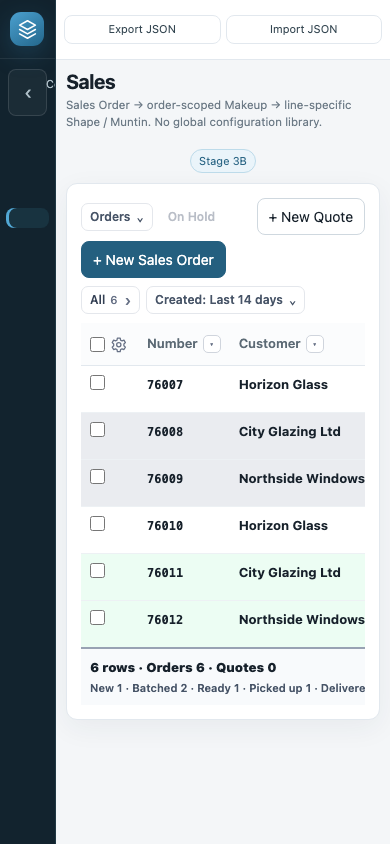
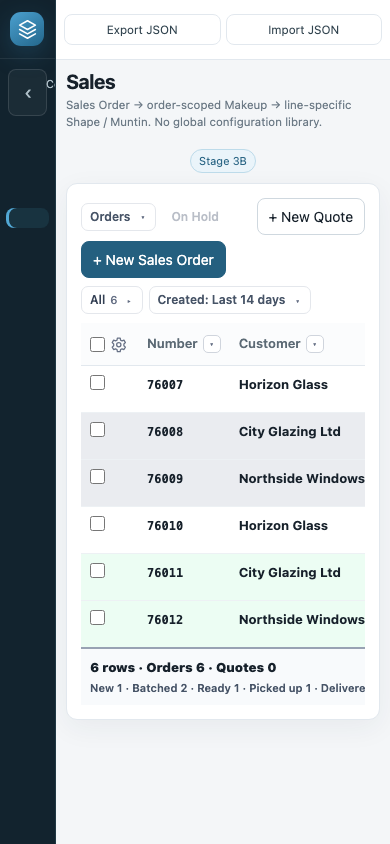
Sales: единые стрелки и тонкая полоса истории заказа

diff --git a/src/styles/lifecycle.css b/src/styles/lifecycle.css
@@ -28,23 +28,25 @@
 .pill.st-cancelled{background:#fee4e2;color:#b42318}
 .pill.st-added{background:#e0f2fe;color:#026aa2;font-size:10px}
 button.go{background:#067647;border-color:#067647;color:#fff;font-weight:700}
-.sales-status-row{display:flex;align-items:flex-start;gap:14px;margin:0 0 10px;padding:8px 12px 6px;border:1px solid var(--line,#e3e7ee);border-radius:10px;background:#fff}
+/* Компактная история: название и точка на одной линии; даты только для состоявшихся этапов. */
+.sales-status-row{display:flex;align-items:center;gap:14px;margin:0 0 10px;padding:7px 12px;border:1px solid var(--line,#e3e7ee);border-radius:10px;background:#fff}
 .sales-status-row .sp{flex:1}
-.sales-steps{display:flex;flex:1;min-width:0}
-.sales-step{position:relative;flex:1;min-width:0;padding-top:18px;text-align:center}
-.sales-step:before{content:'';position:absolute;top:6px;left:0;right:0;height:3px;background:#e4e7ec}
+.sales-steps{display:flex;flex:1;min-width:0;align-items:flex-start}
+.sales-step{position:relative;flex:1;min-width:0;text-align:center;line-height:18px}
+.sales-step:before{content:'';position:absolute;top:9px;left:0;right:0;height:1px;background:#e4e7ec}
 .sales-step:first-child:before{left:50%}
 .sales-step:last-child:before{right:50%}
-.sales-step i{position:absolute;top:0;left:50%;width:16px;height:16px;margin-left:-8px;border:3px solid #d0d5dd;border-radius:50%;background:#fff}
-.sales-step b{display:block;color:#667085;font-size:12px}
-.sales-step small{display:block;color:#98a2b3;font-size:11px}
-.sales-step.done:before{background:#1f6f9f}
+.sales-step-label{position:relative;display:inline-flex;align-items:center;gap:6px;padding:0 8px;background:#fff;white-space:nowrap}
+.sales-step i{display:block;flex:none;width:8px;height:8px;border:1.5px solid #d0d5dd;border-radius:50%;background:#fff}
+.sales-step b{display:block;color:#7b8492;font-size:11px;font-weight:500}
+.sales-step small{display:block;color:#98a2b3;font-size:10px;line-height:14px}
+.sales-step.done:before{background:#7babc7}
 .sales-step.done i{border-color:#1f6f9f;background:#1f6f9f}
-.sales-step.done b{color:#1c2330}
-.sales-step.cur:before{background:linear-gradient(90deg,#1f6f9f 50%,#e4e7ec 50%)}
+.sales-step.done b{color:#475467}
+.sales-step.cur:before{background:linear-gradient(90deg,#7babc7 50%,#e4e7ec 50%)}
 .sales-step:first-child.cur:before{background:#e4e7ec}
-.sales-step.cur i{border-color:#1f6f9f;box-shadow:0 0 0 4px #d1e9ff}
-.sales-step.cur b{color:#16325c;font-weight:800}
+.sales-step.cur i{border-color:#1f6f9f;background:#1f6f9f;box-shadow:0 0 0 3px #e5f1f9}
+.sales-step.cur b{color:#16325c;font-weight:600}
 .sales-status-tools{display:flex;flex-direction:column;align-items:flex-end;gap:6px}
 .sales-lockbar,.sales-quote-note{display:flex;align-items:center;flex-wrap:wrap;gap:8px;margin:0 0 10px;padding:8px 12px;border-radius:9px}
 .sales-lockbar{border:1px solid #fedf89;background:#fffaeb;color:#7a2e0e}
@@ -64,4 +66,4 @@ tr.line-locked input,tr.line-locked select,tr.line-locked button{opacity:.7}
 .sales-dialog-red{color:#b42318}
 .sales-dialog-note{margin-top:8px;padding:8px 10px;border:1px solid #fedf89;border-radius:8px;background:#fffaeb;color:#7a2e0e}
 .sales-dialog-actions{display:flex;justify-content:flex-end;gap:8px;padding:10px 16px;border-top:1px solid #eaecf0;background:#f9fafb}
-@media(max-width:900px){.sales-status-row{flex-direction:column}.sales-status-tools{flex-direction:row;flex-wrap:wrap}}
+@media(max-width:900px){.sales-status-row{overflow-x:auto}.sales-status-row .sales-steps{min-width:660px}.sales-status-tools{flex-direction:row;flex-wrap:wrap}}

diff --git a/src/erp/sales/lifecycle.js b/src/erp/sales/lifecycle.js
@@ -310,7 +310,7 @@ function salesStatusStepper(o){
  }
  if(o.status==='cancelled')return `<div class="sales-status-row"><span class="pill st-cancelled">Cancelled ${esc(salesShortDate(o.statusDates.cancelled))}</span><span class="mut">Status history · read only</span></div>`;
  const at=SALES_ORDER_FLOW.indexOf(o.status);
- const steps=SALES_ORDER_FLOW.map((s,i)=>`<div class="sales-step ${i<at?'done':i===at?'cur':''}" data-step="${s}"><i></i><b>${esc(s==='done'&&at<4?'Picked up / Delivered':salesStatusLabel(o,s))}${s==='batched'?' 🔒':''}</b><small>${o.statusDates&&o.statusDates[s]?esc(salesShortDate(o.statusDates[s])):'&nbsp;'}</small></div>`).join('');
+ const steps=SALES_ORDER_FLOW.map((s,i)=>`<div class="sales-step ${i<at?'done':i===at?'cur':''}" data-step="${s}"><span class="sales-step-label"><i></i><b>${esc(s==='done'&&at<4?'Picked up / Delivered':salesStatusLabel(o,s))}${s==='batched'?' 🔒':''}</b></span>${o.statusDates&&o.statusDates[s]?`<small>${esc(salesShortDate(o.statusDates[s]))}</small>`:''}</div>`).join('');
  return `<div class="sales-status-row"><div class="sales-steps">${steps}</div><span class="sales-status-readonly">Status history · read only</span></div>`;
 }
 function salesOrderBatchNumbers(o){return [...new Set((o.lines||[]).filter(salesLineLocked).map(l=>l.batchNo).filter(Boolean).concat(o.batchNo?[o.batchNo]:[]))];}
@@ -348,6 +348,6 @@ function salesStatusChips(rows){
  if(salesShow.orders)SALES_ORDER_STATE_LIST.forEach(s=>chips.push({key:'order:'+s,label:s==='done'?'Picked up / Delivered':salesStatusLabel({kind:'order'},s),n:count('order',s)}));
  if(salesShow.quotes)SALES_QUOTE_STATE_LIST.forEach(s=>chips.push({key:'quote:'+s,label:salesStatusLabel({kind:'quote'},s),n:count('quote',s)}));
  const p=salesListLoadPrefs(),selected=chips.find(c=>c.key===salesStatusFilter),label=selected?selected.label:'All',n=selected?selected.n:rows.length;
- const toggle=`<button type="button" class="sl-status-toggle" data-status-toggle aria-expanded="${p.statusExpanded}" title="${p.statusExpanded?'Hide status filters':'Show status filters'}" onclick="salesListToggleStatuses()">${esc(label)} <b>${n}</b><span aria-hidden="true">${p.statusExpanded?'‹':'›'}</span></button>`;
+ const toggle=`<button type="button" class="sl-status-toggle" data-status-toggle aria-expanded="${p.statusExpanded}" title="${p.statusExpanded?'Hide status filters':'Show status filters'}" onclick="salesListToggleStatuses()">${esc(label)} <b>${n}</b><span class="sl-disclosure" aria-hidden="true">${p.statusExpanded?'▾':'▸'}</span></button>`;
  return `<div class="sales-status-chips sl-status-compact">${toggle}${p.statusExpanded?`<div class="sl-status-options"><button type="button" data-status-all class="${salesStatusFilter?'':'on'}" onclick="salesSetStatusFilter('')">All <b>${rows.length}</b></button>${chips.map(c=>`<button type="button" data-status-chip="${c.key}" class="${salesStatusFilter===c.key?'on':''}" onclick="salesSetStatusFilter('${c.key}')">${esc(c.label)} <b>${c.n}</b></button>`).join('')}</div>`:''}</div>`;
 }

diff --git a/src/erp/views/sales-list-controls.js b/src/erp/views/sales-list-controls.js
@@ -2,7 +2,7 @@
    что и меню колонки: второго, невидимого ограничения здесь нет. */
 function salesListShowButton(){
  const label=salesShow.orders&&salesShow.quotes?'Orders + Quotes':salesShow.quotes?'Quotes':'Orders';
- return `<button type="button" class="sl-quiet" data-show-menu aria-label="Show orders or quotes" aria-expanded="${!!salesListMenu&&salesListMenu.kind==='show'}" onclick="salesListOpenShow(event)">${label}<span aria-hidden="true">⌄</span></button>`;
+ return `<button type="button" class="sl-quiet" data-show-menu aria-label="Show orders or quotes" aria-expanded="${!!salesListMenu&&salesListMenu.kind==='show'}" onclick="salesListOpenShow(event)">${label}<span class="sl-disclosure" aria-hidden="true">▾</span></button>`;
 }
 function salesListOpenShow(e){salesListMenu=Object.assign({kind:'show',scope:'sales'},salesListAt(e,220));render();}
 function salesListShowMenuHTML(style){
@@ -23,7 +23,7 @@ function salesListDateParts(f){
 function salesListDateButton(){
  const f=salesListLoadPrefs().filters.created,d=salesListDateParts(f);
  const label=d.preset?(SALES_LIST_PRESETS.find(x=>x[0]===d.preset)||['','Custom'])[1]:!d.simple?'Custom filter':d.from&&d.to?salesListShortDay(d.from)+' – '+salesListShortDay(d.to):d.from?'From '+salesListShortDay(d.from):d.to?'Through '+salesListShortDay(d.to):'All time';
- return `<button type="button" class="sl-quiet sl-date-toggle" data-created-range title="${esc(f?salesListFilterSummary(salesListColumn('created'),f):'Created: all dates')}" aria-haspopup="dialog" onclick="salesListOpenDate(event)">Created: ${esc(label)}<span aria-hidden="true">⌄</span></button>`;
+ return `<button type="button" class="sl-quiet sl-date-toggle" data-created-range title="${esc(f?salesListFilterSummary(salesListColumn('created'),f):'Created: all dates')}" aria-haspopup="dialog" onclick="salesListOpenDate(event)">Created: ${esc(label)}<span class="sl-disclosure" aria-hidden="true">▾</span></button>`;
 }
 function salesListOpenDate(e){salesListMenu=Object.assign({kind:'date',scope:'sales',error:''},salesListDateParts(salesListLoadPrefs().filters.created),salesListAt(e,360));render();}
 function salesListDatePreset(key){

diff --git a/test/sales-compact.js b/test/sales-compact.js
@@ -32,7 +32,7 @@ module.exports=async function({page,eq,ok}){
  eq('сворачивание сохраняет выбранный этап и показывает его имя',await t.p.evaluate(()=>({rows:scRows(),label:document.querySelector('[data-status-toggle]').textContent.includes('Verified'),hidden:!document.querySelector('[data-status-chip]'),saved:JSON.parse(localStorage.getItem(SALES_LIST_PREFS_KEY)).statusExpanded})),{rows:['88002'],label:true,hidden:true,saved:false});
  await t.p.evaluate(()=>{salesStatusFilter='';render();});
  await t.p.locator('[data-show-menu]').click();await t.p.locator('[data-show="quotes"]').check();await t.p.locator('[data-show="orders"]').uncheck();await t.p.keyboard.press('Escape');
- eq('Show — один контрол, Orders/Quotes выбираются внутри; нельзя скрыть оба вида',await t.p.evaluate(()=>({show:salesShow,label:document.querySelector('[data-show-menu]').textContent.trim(),saved:JSON.parse(localStorage.getItem('glass_erp_sales_show'))})),{show:{orders:false,quotes:true},label:'Quotes⌄',saved:{orders:false,quotes:true}});
+ eq('Show — один контрол, Orders/Quotes выбираются внутри; нельзя скрыть оба вида',await t.p.evaluate(()=>({show:salesShow,label:document.querySelector('[data-show-menu]').textContent.trim(),saved:JSON.parse(localStorage.getItem('glass_erp_sales_show'))})),{show:{orders:false,quotes:true},label:'Quotes▾',saved:{orders:false,quotes:true}});
  await t.p.locator('[data-show-menu]').click();ok('единственный выбранный вид не снимается',await t.p.locator('[data-show="quotes"]').isDisabled());await t.p.keyboard.press('Escape');
  await t.p.evaluate(()=>{salesShow={orders:true,quotes:false};render();});await t.p.locator('[data-columns-button]').click();
  ok('шестерёнка открывает прежнее управление колонками',await t.p.locator('[aria-label="Columns"] [data-col-toggle="glass"]').count()===1);await t.p.keyboard.press('Escape');

diff --git a/src/styles/sales-list.css b/src/styles/sales-list.css
@@ -71,7 +71,7 @@
 .sl-status-options{display:flex;gap:5px;flex-wrap:wrap;align-items:center;max-width:100%;order:3;flex-basis:100%}
 .sales-status-chips .sl-status-toggle{display:inline-flex;gap:5px;align-items:center;height:28px;padding:3px 8px;border-radius:7px;color:#344054;font-weight:600;background:#fff;border:1px solid #e4e7ec;box-shadow:none}
 .sales-status-chips .sl-status-toggle b{font-size:11px;font-weight:500;color:#667085;margin:0}
-.sales-status-chips .sl-status-toggle>span{margin-left:2px;font-size:15px;color:#667085}
+.sales-list-card .sl-disclosure{display:inline-block;width:9px;margin-left:2px;font-size:9px;line-height:1;text-align:center;color:#667085}
 .sl-header-tools{display:flex;align-items:center;gap:3px}
 .sl-table th.sl-check:has(.sl-header-tools){min-width:48px;padding-right:4px}
 .sl-settings{border:0;background:transparent;padding:3px;border-radius:5px;width:26px;height:26px;color:#667085;cursor:pointer}

diff --git a/src/styles/optimization.css b/src/styles/optimization.css
@@ -31,7 +31,7 @@
 .oq-notice span{flex:1;min-width:180px;font-size:12px;overflow-wrap:anywhere}
 .oq-bridge{margin-top:16px}
 .oq-bridge p{margin:4px 0 12px}
-.sales-status-readonly{color:#8a96a8;font-size:11px;white-space:nowrap;margin-top:5px}
+.sales-status-readonly{color:#8a96a8;font-size:10px;white-space:nowrap;margin-top:0}
 @media(max-width:900px){.sales-steps{width:100%}.sales-status-readonly{align-self:flex-end}}
 @media(max-width:600px){.oq-card{padding:10px}.oq-tabs{gap:2px}.oq-tabs button{padding:8px;font-size:12px}.oq-toolbar input[type=search]{width:100%}.oq-toolbar .sp{display:none}.oq-notice span{min-width:100%}.sales-step b{font-size:10px}.sales-step small{font-size:9px}.sales-dialog-actions{flex-wrap:wrap}}
 

diff --git a/src/index.html b/src/index.html
@@ -44,7 +44,7 @@
 <script>
 /* Метка сборки: видно, та ли версия файла открыта. Это fingerprint исходников,
    а не текущее время, поэтому повторная сборка остаётся воспроизводимой. */
-var ERP_BUILD='73ea403e42cd';
+var ERP_BUILD='10a4666f06d7';
 </script>
 <script src="core/dim.js"></script>
 <script src="core/poly.js"></script>

diff --git a/docs/SALES_COMPACT_REVIEW.md b/docs/SALES_COMPACT_REVIEW.md
@@ -1,7 +1,14 @@
 # Проверка компактного Sales
 
-Сборка **73ea403e42cd** · 16 сентября 2026. Снимки сняты с собранного HTML,
+Сборка **10a4666f06d7** · 16 сентября 2026. Снимки сняты с собранного HTML,
 с демонстрационными заказами. Макеты одобрены владельцем перед реализацией.
+
+## Уточнение после проверки владельцем
+
+Новые стрелки используют тот же знак ▾, что фильтры колонок; закрытая навигация — ▸.
+История заказа стала тонкой полосой: точка и название на одной линии, даты выводятся
+только у состоявшихся этапов. Пустые строки под будущие даты убраны.
+На узком экране полоса прокручивается горизонтально.
 
 ## Что проверить
 
@@ -40,3 +47,5 @@ Hold/Release, сохранение и перезагрузка, частичны
 ![Hold позиции](sales-compact-screenshots/sales-line-hold-built.png)
 ![Частичный батч](sales-compact-screenshots/sales-partial-batch-built.png)
 ![Узкий экран](sales-compact-screenshots/sales-compact-mobile-built.png)
+
+![Компактная история нового заказа](sales-compact-screenshots/sales-order-strip-built.png)

diff --git a/docs/GLASS_ERP_HANDOFF.md b/docs/GLASS_ERP_HANDOFF.md
@@ -2,12 +2,15 @@
 
 Версия 5.28 · 16 сентября 2026 — компактный Sales и Hold отдельных позиций.
 
+После проверки владелец попросил единый стиль стрелок и убрать пустоту под историей заказа.
+В PR #83 добавлены стрелки как у фильтров колонок и тонкая полоса истории без пустых дат.
+
 ## Реализовано: компактный Sales и Hold позиции · 16 сентября 2026
 
 Владелец одобрил макеты: «все что ты сделал отлично!!!», попросил также
 упростить Show Orders/Quotes, On Hold и Columns; затем — «заканчивай начатое».
 Этап A реализован в ветке `codex/sales-compact-line-hold` от main `2131a0a`.
-Сборка `73ea403e42cd`, 67 скриптов. Доказательства и ручная проверка:
+Сборка `10a4666f06d7`, 67 скриптов. Доказательства и ручная проверка:
 `docs/SALES_COMPACT_REVIEW.md` и `docs/sales-compact-screenshots/`.
 
 - Orders/Quotes — компактное меню; On Hold заказа — небольшое действие;

diff --git a/docs/ДЛЯ_ЧАТГПТ.md b/docs/ДЛЯ_ЧАТГПТ.md
@@ -10,7 +10,7 @@
 PR #82 слит, main `2131a0a`. Последний проверенный набор PR B — 635 src и
 635 dist. Сейчас читать **`docs/ЗАДАЧА_SALES_И_БАТЧИ.md`**: обсуждены Sales
 и батчи отдельных стёкол. Этап A (компактный Sales и Hold позиции) реализован
-после одобрения макетов, сборка `73ea403e42cd`; обзор — `docs/SALES_COMPACT_REVIEW.md`.
+после одобрения макетов, сборка `10a4666f06d7`; обзор — `docs/SALES_COMPACT_REVIEW.md`.
 Следующий этап — компонентные батчи, сначала макет и одобрение.
 PR C остаётся следующей отдельной задачей после этого плана. Даты, номера
 проверок и указание «следующая PR B» ниже описывают прежнюю базовую точку;

diff --git a/docs/ЗАДАЧА_SALES_И_БАТЧИ.md b/docs/ЗАДАЧА_SALES_И_БАТЧИ.md
@@ -9,7 +9,7 @@
 Владелец одобрил макеты: «все что ты сделал отлично!!!», попросил также
 упростить Show Orders/Quotes, On Hold и Columns; затем — «заканчивай начатое».
 Этап A реализован в ветке `codex/sales-compact-line-hold` от main `2131a0a`.
-Сборка `73ea403e42cd`, 67 скриптов. Доказательства и ручная проверка:
+Сборка `10a4666f06d7`, 67 скриптов. Доказательства и ручная проверка:
 `docs/SALES_COMPACT_REVIEW.md` и `docs/sales-compact-screenshots/`.
 
 - Orders/Quotes — компактное меню; On Hold заказа — небольшое действие;
